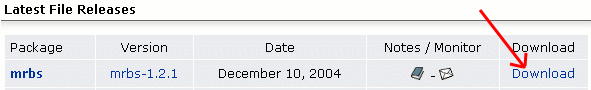
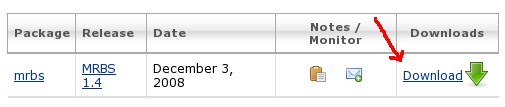
* Some updates/tidying.

diff --git a/download.html b/download.html
@@ -1,5 +1,5 @@
 
-<?
+<?php
 include "inc/main.inc";
 
 doPageHeader("Download");
@@ -62,29 +62,31 @@ doPageHeader("Download");
           <td height="337"></td>
           <td colspan="3" valign="top"><!-- #BeginEditable "body" --> 
             <ul>
-              <li class="body"><a href="http://sourceforge.net/projects/mrbs/">Download 
+              <li class="body"><a
+            href="http://sourceforge.net/project/showfiles.php?group_id=5113/">Download 
                 Tarball</a></li>
-              <li class="body"><a href="http://sourceforge.net/cvs/?group_id=5113">CVS 
+              <li class="body"><a
+                href="http://sourceforge.net/svn/?group_id=5113">SVN 
                 Instructions</a></li>
             </ul>
-            <P class="body">The latest releases will always be available <A HREF="http://sourceforge.net/projects/mrbs/">here</A> 
-              with a small comment describing what's changed. Just scroll down 
-              to the &quot;Latest File Releases&quot; section and click the &quot;download&quot; 
+            <P class="body">The latest releases will always be available <A
+            HREF="http://sourceforge.net/project/showfiles.php?group_id=5113">here</A> 
+              along with release notes describing what's changed. Just find
+              the latest release and click the &quot;download&quot; 
               link in front of &quot;mrbs&quot; package like this :</P>
             <P align="center" class="body"><br>
               <img src="images/mrbs_download.png"
-               alt="Picture of SF download page" width="591" height="90"> 
+               alt="Picture of SF download page" width="505" height="107"> 
             </P>
-            <P class="body">Alternatively you can get MRBS via CVS,
-              insructions are <A HREF="http://sourceforge.net/cvs/?group_id=5113">here</A>.
-              Currently major development is happening on the trunk, so
-              unless you want to help us testing that, you probably want to
-              check out the 1.2 branch, i.e.:
+            <P class="body">Alternatively you can get MRBS via SVN,
+              insructions are <A HREF="http://sourceforge.net/svn/?group_id=5113">here</A>.
+              Releases are currently made from the trunk <b>mrbs/trunk</b>,
+              but further minor releases are likely to be made on a stabke
+              branch.
             </P>
             
             <PRE>
-      $ cvs -z3 -d:pserver:anonymous@cvs.sourceforge.net:/cvsroot/mrbs \
-      > co -r mrbs-1_2-branch -P mrbs
+      $ svn co https://mrbs.svn.sourceforge.net/svnroot/mrbs/mrbs/trunk mrbs
 </PRE>
 
             <P class="body"> For installation instructions please refer to a file 

diff --git a/sshots.html b/sshots.html
@@ -1,5 +1,5 @@
 
-<?
+<?php
 include "inc/main.inc";
 
 doPageHeader("Screen Shots");

diff --git a/demo.html b/demo.html
@@ -1,5 +1,5 @@
 
-<?
+<?php
 include "inc/main.inc";
 
 doPageHeader("Demo");

diff --git a/view_image.php b/view_image.php
@@ -1,7 +1,7 @@
 <html><!-- #BeginTemplate "/Templates/main.dwt" --><!-- DW6 -->
 <head>
 <!-- #BeginEditable "doctitle" --> 
-<title>MRBS: Screenshot <? echo $file ?></title>
+<title>MRBS: Screenshot <?php echo $file ?></title>
 <!-- #EndEditable -->
 <meta http-equiv="Content-Type" content="text/html; charset=iso-8859-1">
 <link rel="stylesheet" href="mrbs.css" type="text/css">
@@ -37,7 +37,7 @@
         <tr> 
           <td height="34"></td>
           <td colspan="2" valign="middle" bgcolor="#FFFFFF"> 
-            <h1><!-- #BeginEditable "title" -->MRBS Screenshot: <? echo $file ?><!-- #EndEditable --></h1>
+            <h1><!-- #BeginEditable "title" -->MRBS Screenshot: <?php echo $file ?><!-- #EndEditable --></h1>
           </td>
         </tr>
         <tr> 
@@ -54,7 +54,7 @@
         </tr>
         <tr>
           <td height="337"></td>
-          <td colspan="3" valign="top"><!-- #BeginEditable "body" --> <IMG SRC="<? echo $file ?>"> 
+          <td colspan="3" valign="top"><!-- #BeginEditable "body" --> <IMG SRC="<?php echo $file ?>"> 
             <!-- #EndEditable --> </td>
           <td></td>
         </tr>
